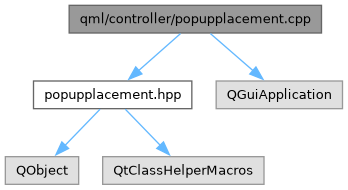
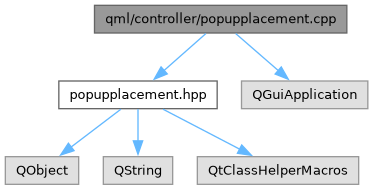
deploy: 94b05e02d684cb3d25eb8ba999994d06d3b08c2f

diff --git a/popupplacement_8hpp_source.html b/popupplacement_8hpp_source.html
@@ -94,32 +94,55 @@ $(function(){initNavTree('popupplacement_8hpp_source.html','',''); });
 <a href="popupplacement_8hpp.html">Go to the documentation of this file.</a><div class="fragment"><div class="line"><a id="l00001" name="l00001"></a><span class="lineno">    1</span><span class="preprocessor">#pragma once</span></div>
 <div class="line"><a id="l00002" name="l00002"></a><span class="lineno">    2</span> </div>
 <div class="line"><a id="l00003" name="l00003"></a><span class="lineno">    3</span><span class="preprocessor">#include &lt;QObject&gt;</span></div>
-<div class="line"><a id="l00004" name="l00004"></a><span class="lineno">    4</span><span class="preprocessor">#include &lt;QtClassHelperMacros&gt;</span></div>
-<div class="line"><a id="l00005" name="l00005"></a><span class="lineno">    5</span></div>
-<div class="foldopen" id="foldopen00018" data-start="{" data-end="};">
-<div class="line"><a id="l00018" name="l00018"></a><span class="lineno"><a class="line" href="classPopupPlacement.html">   18</a></span><span class="keyword">class </span><a class="code hl_function" href="classPopupPlacement.html#a47a7204373d5c266739ab8d8ebd31429">PopupPlacement</a> : <span class="keyword">public</span> QObject</div>
-<div class="line"><a id="l00019" name="l00019"></a><span class="lineno">   19</span>{</div>
-<div class="line"><a id="l00020" name="l00020"></a><span class="lineno">   20</span>    Q_OBJECT</div>
-<div class="line"><a id="l00021" name="l00021"></a><span class="lineno">   21</span>    Q_DISABLE_COPY_MOVE(<a class="code hl_function" href="classPopupPlacement.html#a47a7204373d5c266739ab8d8ebd31429">PopupPlacement</a>)</div>
-<div class="line"><a id="l00022" name="l00022"></a><span class="lineno">   22</span> </div>
-<div class="line"><a id="l00023" name="l00023"></a><span class="lineno">   23</span><span class="keyword">public</span>:</div>
-<div class="line"><a id="l00028" name="l00028"></a><span class="lineno">   28</span>    <span class="keyword">explicit</span> <a class="code hl_function" href="classPopupPlacement.html#a47a7204373d5c266739ab8d8ebd31429">PopupPlacement</a>(QObject *parent = <span class="keyword">nullptr</span>);</div>
-<div class="line"><a id="l00029" name="l00029"></a><span class="lineno">   29</span></div>
-<div class="line"><a id="l00038" name="l00038"></a><span class="lineno">   38</span>    <span class="keywordtype">void</span> <a class="code hl_function" href="classPopupPlacement.html#a4e73917ab00cfa40e2ba81cecacea21f">start</a>();</div>
-<div class="line"><a id="l00039" name="l00039"></a><span class="lineno">   39</span></div>
-<div class="line"><a id="l00045" name="l00045"></a><span class="lineno">   45</span>    <span class="keywordtype">void</span> <a class="code hl_function" href="classPopupPlacement.html#aba287c11df9c51c27e869b213508757d">stop</a>();</div>
-<div class="line"><a id="l00046" name="l00046"></a><span class="lineno">   46</span></div>
-<div class="line"><a id="l00054" name="l00054"></a><span class="lineno">   54</span>    Q_INVOKABLE <span class="keywordtype">void</span> <a class="code hl_function" href="classPopupPlacement.html#a5e0ce1e809f0ba9a97543d1043623de6">requestPlacement</a>() <span class="keyword">const</span>;</div>
-<div class="line"><a id="l00055" name="l00055"></a><span class="lineno">   55</span> </div>
-<div class="line"><a id="l00056" name="l00056"></a><span class="lineno">   56</span><span class="keyword">private</span>:</div>
-<div class="line"><a id="l00058" name="l00058"></a><span class="lineno">   58</span>    <span class="keywordtype">bool</span> m_gnomeActive = <span class="keyword">false</span>;</div>
-<div class="line"><a id="l00060" name="l00060"></a><span class="lineno">   60</span>    <span class="keywordtype">bool</span> m_kwinActive = <span class="keyword">false</span>;</div>
-<div class="line"><a id="l00061" name="l00061"></a><span class="lineno">   61</span>};</div>
+<div class="line"><a id="l00004" name="l00004"></a><span class="lineno">    4</span><span class="preprocessor">#include &lt;QString&gt;</span></div>
+<div class="line"><a id="l00005" name="l00005"></a><span class="lineno">    5</span><span class="preprocessor">#include &lt;QtClassHelperMacros&gt;</span></div>
+<div class="line"><a id="l00006" name="l00006"></a><span class="lineno">    6</span></div>
+<div class="foldopen" id="foldopen00019" data-start="{" data-end="};">
+<div class="line"><a id="l00019" name="l00019"></a><span class="lineno"><a class="line" href="classPopupPlacement.html">   19</a></span><span class="keyword">class </span><a class="code hl_function" href="classPopupPlacement.html#a47a7204373d5c266739ab8d8ebd31429">PopupPlacement</a> : <span class="keyword">public</span> QObject</div>
+<div class="line"><a id="l00020" name="l00020"></a><span class="lineno">   20</span>{</div>
+<div class="line"><a id="l00021" name="l00021"></a><span class="lineno">   21</span>    Q_OBJECT</div>
+<div class="line"><a id="l00022" name="l00022"></a><span class="lineno">   22</span>    Q_DISABLE_COPY_MOVE(<a class="code hl_function" href="classPopupPlacement.html#a47a7204373d5c266739ab8d8ebd31429">PopupPlacement</a>)</div>
+<div class="line"><a id="l00023" name="l00023"></a><span class="lineno">   23</span> </div>
+<div class="line"><a id="l00024" name="l00024"></a><span class="lineno">   24</span><span class="keyword">public</span>:</div>
+<div class="line"><a id="l00029" name="l00029"></a><span class="lineno">   29</span>    <span class="keyword">explicit</span> <a class="code hl_function" href="classPopupPlacement.html#a47a7204373d5c266739ab8d8ebd31429">PopupPlacement</a>(QObject *parent = <span class="keyword">nullptr</span>);</div>
+<div class="line"><a id="l00030" name="l00030"></a><span class="lineno">   30</span></div>
+<div class="line"><a id="l00039" name="l00039"></a><span class="lineno">   39</span>    <span class="keywordtype">void</span> <a class="code hl_function" href="classPopupPlacement.html#a4e73917ab00cfa40e2ba81cecacea21f">start</a>();</div>
+<div class="line"><a id="l00040" name="l00040"></a><span class="lineno">   40</span></div>
+<div class="line"><a id="l00046" name="l00046"></a><span class="lineno">   46</span>    <span class="keywordtype">void</span> <a class="code hl_function" href="classPopupPlacement.html#aba287c11df9c51c27e869b213508757d">stop</a>();</div>
+<div class="line"><a id="l00047" name="l00047"></a><span class="lineno">   47</span></div>
+<div class="line"><a id="l00055" name="l00055"></a><span class="lineno">   55</span>    Q_INVOKABLE <span class="keywordtype">void</span> <a class="code hl_function" href="classPopupPlacement.html#a5e0ce1e809f0ba9a97543d1043623de6">requestPlacement</a>() <span class="keyword">const</span>;</div>
+<div class="line"><a id="l00056" name="l00056"></a><span class="lineno">   56</span> </div>
+<div class="line"><a id="l00057" name="l00057"></a><span class="lineno">   57</span><span class="preprocessor">#if defined(BUILD_TESTING)</span></div>
+<div class="line"><a id="l00058" name="l00058"></a><span class="lineno">   58</span><span class="keyword">protected</span>:</div>
+<div class="line"><a id="l00059" name="l00059"></a><span class="lineno">   59</span><span class="preprocessor">#else</span></div>
+<div class="line"><a id="l00060" name="l00060"></a><span class="lineno">   60</span><span class="keyword">private</span>:</div>
+<div class="line"><a id="l00061" name="l00061"></a><span class="lineno">   61</span><span class="preprocessor">#endif</span></div>
+<div class="line"><a id="l00062" name="l00062"></a><span class="lineno">   62</span><span class="preprocessor">#if defined(Q_OS_LINUX)</span></div>
+<div class="line"><a id="l00064" name="l00064"></a><span class="lineno">   64</span>    <span class="keyword">static</span> <span class="keywordtype">bool</span> isWayland();</div>
+<div class="line"><a id="l00066" name="l00066"></a><span class="lineno">   66</span>    <span class="keyword">static</span> <span class="keywordtype">bool</span> desktopContains(<span class="keyword">const</span> <span class="keywordtype">char</span> *name);</div>
+<div class="line"><a id="l00068" name="l00068"></a><span class="lineno">   68</span>    <span class="keyword">static</span> <span class="keywordtype">bool</span> installGnomeExtension();</div>
+<div class="line"><a id="l00070" name="l00070"></a><span class="lineno">   70</span>    <span class="keyword">static</span> <span class="keywordtype">bool</span> callGnomeExtensionManager(<span class="keyword">const</span> QString &amp;method);</div>
+<div class="line"><a id="l00071" name="l00071"></a><span class="lineno">   71</span></div>
+<div class="line"><a id="l00073" name="l00073"></a><span class="lineno">   73</span>    <span class="keyword">static</span> QString s_gnomeShellExtensionsService;</div>
+<div class="line"><a id="l00074" name="l00074"></a><span class="lineno">   74</span>    <span class="keyword">static</span> QString s_gnomeShellExtensionsPath;</div>
+<div class="line"><a id="l00076" name="l00076"></a><span class="lineno">   76</span>    <span class="keyword">static</span> QString s_gnomePlacementService;</div>
+<div class="line"><a id="l00077" name="l00077"></a><span class="lineno">   77</span>    <span class="keyword">static</span> QString s_gnomePlacementPath;</div>
+<div class="line"><a id="l00078" name="l00078"></a><span class="lineno">   78</span>    <span class="keyword">static</span> QString s_gnomePlacementInterface;</div>
+<div class="line"><a id="l00079" name="l00079"></a><span class="lineno">   79</span> </div>
+<div class="line"><a id="l00080" name="l00080"></a><span class="lineno">   80</span><span class="preprocessor">#    if defined(BUILD_TESTING)</span></div>
+<div class="line"><a id="l00082" name="l00082"></a><span class="lineno">   82</span>    <span class="keyword">static</span> <span class="keywordtype">bool</span> s_forceWaylandForTesting;</div>
+<div class="line"><a id="l00083" name="l00083"></a><span class="lineno">   83</span><span class="preprocessor">#    endif</span></div>
+<div class="line"><a id="l00084" name="l00084"></a><span class="lineno">   84</span><span class="preprocessor">#endif</span></div>
+<div class="line"><a id="l00085" name="l00085"></a><span class="lineno">   85</span> </div>
+<div class="line"><a id="l00086" name="l00086"></a><span class="lineno">   86</span><span class="keyword">private</span>:</div>
+<div class="line"><a id="l00088" name="l00088"></a><span class="lineno">   88</span>    <span class="keywordtype">bool</span> m_gnomeActive = <span class="keyword">false</span>;</div>
+<div class="line"><a id="l00090" name="l00090"></a><span class="lineno">   90</span>    <span class="keywordtype">bool</span> m_kwinActive = <span class="keyword">false</span>;</div>
+<div class="line"><a id="l00091" name="l00091"></a><span class="lineno">   91</span>};</div>
 </div>
-<div class="ttc" id="aclassPopupPlacement_html_a47a7204373d5c266739ab8d8ebd31429"><div class="ttname"><a href="classPopupPlacement.html#a47a7204373d5c266739ab8d8ebd31429">PopupPlacement::PopupPlacement</a></div><div class="ttdeci">PopupPlacement(QObject *parent=nullptr)</div><div class="ttdoc">Creates an inactive placer. Call start() to enable it.</div><div class="ttdef"><b>Definition</b> popupplacement.cpp:118</div></div>
-<div class="ttc" id="aclassPopupPlacement_html_a4e73917ab00cfa40e2ba81cecacea21f"><div class="ttname"><a href="classPopupPlacement.html#a4e73917ab00cfa40e2ba81cecacea21f">PopupPlacement::start</a></div><div class="ttdeci">void start()</div><div class="ttdoc">Installs and enables the compositor-side placement for the current desktop. Only has an effect on Way...</div><div class="ttdef"><b>Definition</b> popupplacement.cpp:122</div></div>
-<div class="ttc" id="aclassPopupPlacement_html_a5e0ce1e809f0ba9a97543d1043623de6"><div class="ttname"><a href="classPopupPlacement.html#a5e0ce1e809f0ba9a97543d1043623de6">PopupPlacement::requestPlacement</a></div><div class="ttdeci">Q_INVOKABLE void requestPlacement() const</div><div class="ttdoc">Asks the GNOME extension to place the next popup window it sees.</div><div class="ttdef"><b>Definition</b> popupplacement.cpp:155</div></div>
-<div class="ttc" id="aclassPopupPlacement_html_aba287c11df9c51c27e869b213508757d"><div class="ttname"><a href="classPopupPlacement.html#aba287c11df9c51c27e869b213508757d">PopupPlacement::stop</a></div><div class="ttdeci">void stop()</div><div class="ttdoc">Unloads the KWin script loaded by start(), if any. The GNOME extension stays enabled,...</div><div class="ttdef"><b>Definition</b> popupplacement.cpp:144</div></div>
+<div class="ttc" id="aclassPopupPlacement_html_a47a7204373d5c266739ab8d8ebd31429"><div class="ttname"><a href="classPopupPlacement.html#a47a7204373d5c266739ab8d8ebd31429">PopupPlacement::PopupPlacement</a></div><div class="ttdeci">PopupPlacement(QObject *parent=nullptr)</div><div class="ttdoc">Creates an inactive placer. Call start() to enable it.</div><div class="ttdef"><b>Definition</b> popupplacement.cpp:117</div></div>
+<div class="ttc" id="aclassPopupPlacement_html_a4e73917ab00cfa40e2ba81cecacea21f"><div class="ttname"><a href="classPopupPlacement.html#a4e73917ab00cfa40e2ba81cecacea21f">PopupPlacement::start</a></div><div class="ttdeci">void start()</div><div class="ttdoc">Installs and enables the compositor-side placement for the current desktop. Only has an effect on Way...</div><div class="ttdef"><b>Definition</b> popupplacement.cpp:121</div></div>
+<div class="ttc" id="aclassPopupPlacement_html_a5e0ce1e809f0ba9a97543d1043623de6"><div class="ttname"><a href="classPopupPlacement.html#a5e0ce1e809f0ba9a97543d1043623de6">PopupPlacement::requestPlacement</a></div><div class="ttdeci">Q_INVOKABLE void requestPlacement() const</div><div class="ttdoc">Asks the GNOME extension to place the next popup window it sees.</div><div class="ttdef"><b>Definition</b> popupplacement.cpp:154</div></div>
+<div class="ttc" id="aclassPopupPlacement_html_aba287c11df9c51c27e869b213508757d"><div class="ttname"><a href="classPopupPlacement.html#aba287c11df9c51c27e869b213508757d">PopupPlacement::stop</a></div><div class="ttdeci">void stop()</div><div class="ttdoc">Unloads the KWin script loaded by start(), if any. The GNOME extension stays enabled,...</div><div class="ttdef"><b>Definition</b> popupplacement.cpp:143</div></div>
 </div><!-- fragment --></div><!-- contents -->
 </div><!-- doc-content -->
 </div><!-- container -->

diff --git a/popupplacement_8cpp.html b/popupplacement_8cpp.html
@@ -98,15 +98,17 @@ Include dependency graph for popupplacement.cpp:</div>
 <div class="dyncontent">
 <div class="center"><img src="popupplacement_8cpp__incl.png" border="0" usemap="#aqml_2controller_2popupplacement_8cpp" loading="lazy" alt=""/></div>
 <map name="aqml_2controller_2popupplacement_8cpp" id="aqml_2controller_2popupplacement_8cpp">
-<area shape="rect" title=" " alt="" coords="69,5,322,33"/>
-<area shape="rect" href="popupplacement_8hpp.html" title=" " alt="" coords="34,81,192,109"/>
-<area shape="poly" title=" " alt="" coords="183,32,140,73,137,69,179,35"/>
-<area shape="rect" title=" " alt="" coords="216,81,342,109"/>
-<area shape="poly" title=" " alt="" coords="211,31,256,70,250,71,210,36"/>
+<area shape="rect" title=" " alt="" coords="94,5,347,33"/>
+<area shape="rect" href="popupplacement_8hpp.html" title=" " alt="" coords="59,81,217,109"/>
+<area shape="poly" title=" " alt="" coords="208,32,166,73,162,69,204,35"/>
+<area shape="rect" title=" " alt="" coords="242,81,368,109"/>
+<area shape="poly" title=" " alt="" coords="236,31,281,71,276,71,235,36"/>
 <area shape="rect" title=" " alt="" coords="5,157,79,184"/>
-<area shape="poly" title=" " alt="" coords="102,108,67,147,63,144,98,110"/>
-<area shape="rect" title=" " alt="" coords="103,157,264,184"/>
-<area shape="poly" title=" " alt="" coords="126,107,163,145,158,146,124,112"/>
+<area shape="poly" title=" " alt="" coords="123,108,73,149,70,145,118,110"/>
+<area shape="rect" title=" " alt="" coords="103,157,173,184"/>
+<area shape="poly" title=" " alt="" coords="140,107,140,142,136,140,136,111"/>
+<area shape="rect" title=" " alt="" coords="197,157,359,184"/>
+<area shape="poly" title=" " alt="" coords="164,107,242,149,237,150,162,112"/>
 </map>
 </div>
 </div></div><!-- contents -->

diff --git a/popupplacement_8hpp.html b/popupplacement_8hpp.html
@@ -92,17 +92,20 @@ $(function(){initNavTree('popupplacement_8hpp.html','',''); });
 </div><!--header-->
 <div class="contents">
 <div class="textblock"><code>#include &lt;QObject&gt;</code><br />
+<code>#include &lt;QString&gt;</code><br />
 <code>#include &lt;QtClassHelperMacros&gt;</code><br />
 </div><div class="textblock"><div class="dynheader">
 Include dependency graph for popupplacement.hpp:</div>
 <div class="dyncontent">
 <div class="center"><img src="popupplacement_8hpp__incl.png" border="0" usemap="#aqml_2controller_2popupplacement_8hpp" loading="lazy" alt=""/></div>
 <map name="aqml_2controller_2popupplacement_8hpp" id="aqml_2controller_2popupplacement_8hpp">
-<area shape="rect" title=" " alt="" coords="5,5,259,33"/>
-<area shape="rect" title=" " alt="" coords="25,81,98,109"/>
-<area shape="poly" title=" " alt="" coords="122,32,86,72,82,68,117,35"/>
-<area shape="rect" title=" " alt="" coords="122,81,283,109"/>
-<area shape="poly" title=" " alt="" coords="146,31,182,70,177,70,144,36"/>
+<area shape="rect" title=" " alt="" coords="11,5,265,33"/>
+<area shape="rect" title=" " alt="" coords="5,81,79,109"/>
+<area shape="poly" title=" " alt="" coords="123,33,73,74,70,69,118,34"/>
+<area shape="rect" title=" " alt="" coords="103,81,173,109"/>
+<area shape="poly" title=" " alt="" coords="140,32,140,66,136,64,136,36"/>
+<area shape="rect" title=" " alt="" coords="197,81,359,109"/>
+<area shape="poly" title=" " alt="" coords="164,31,242,73,237,74,162,36"/>
 </map>
 </div>
 </div><div class="textblock"><div class="dynheader">
